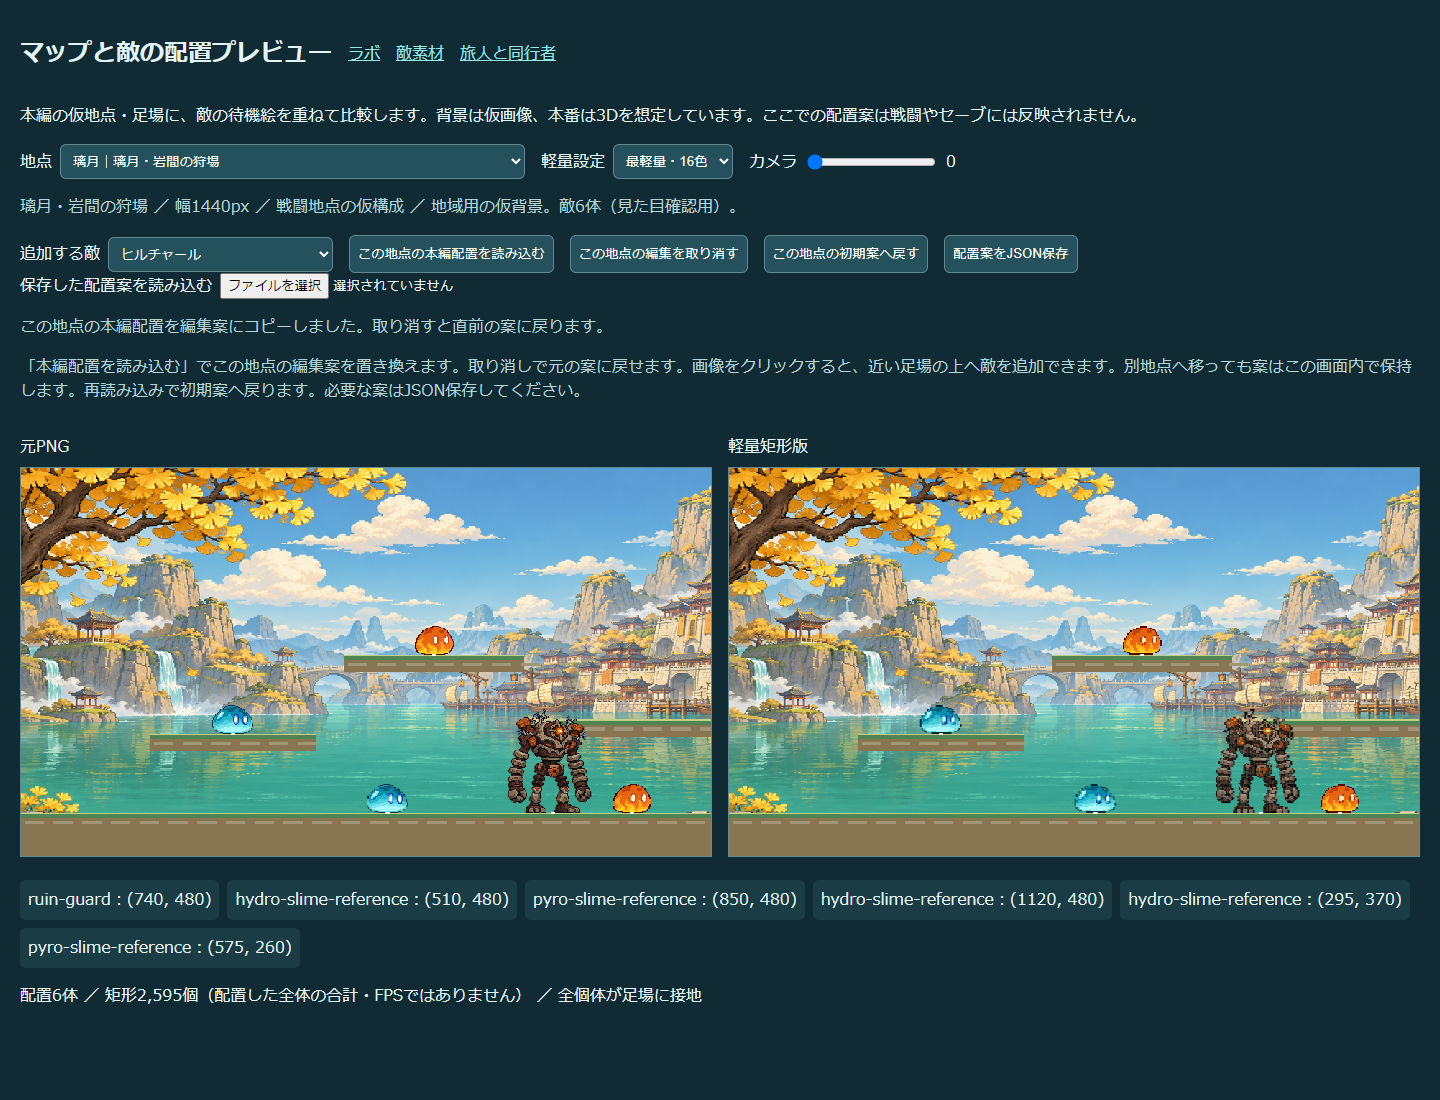
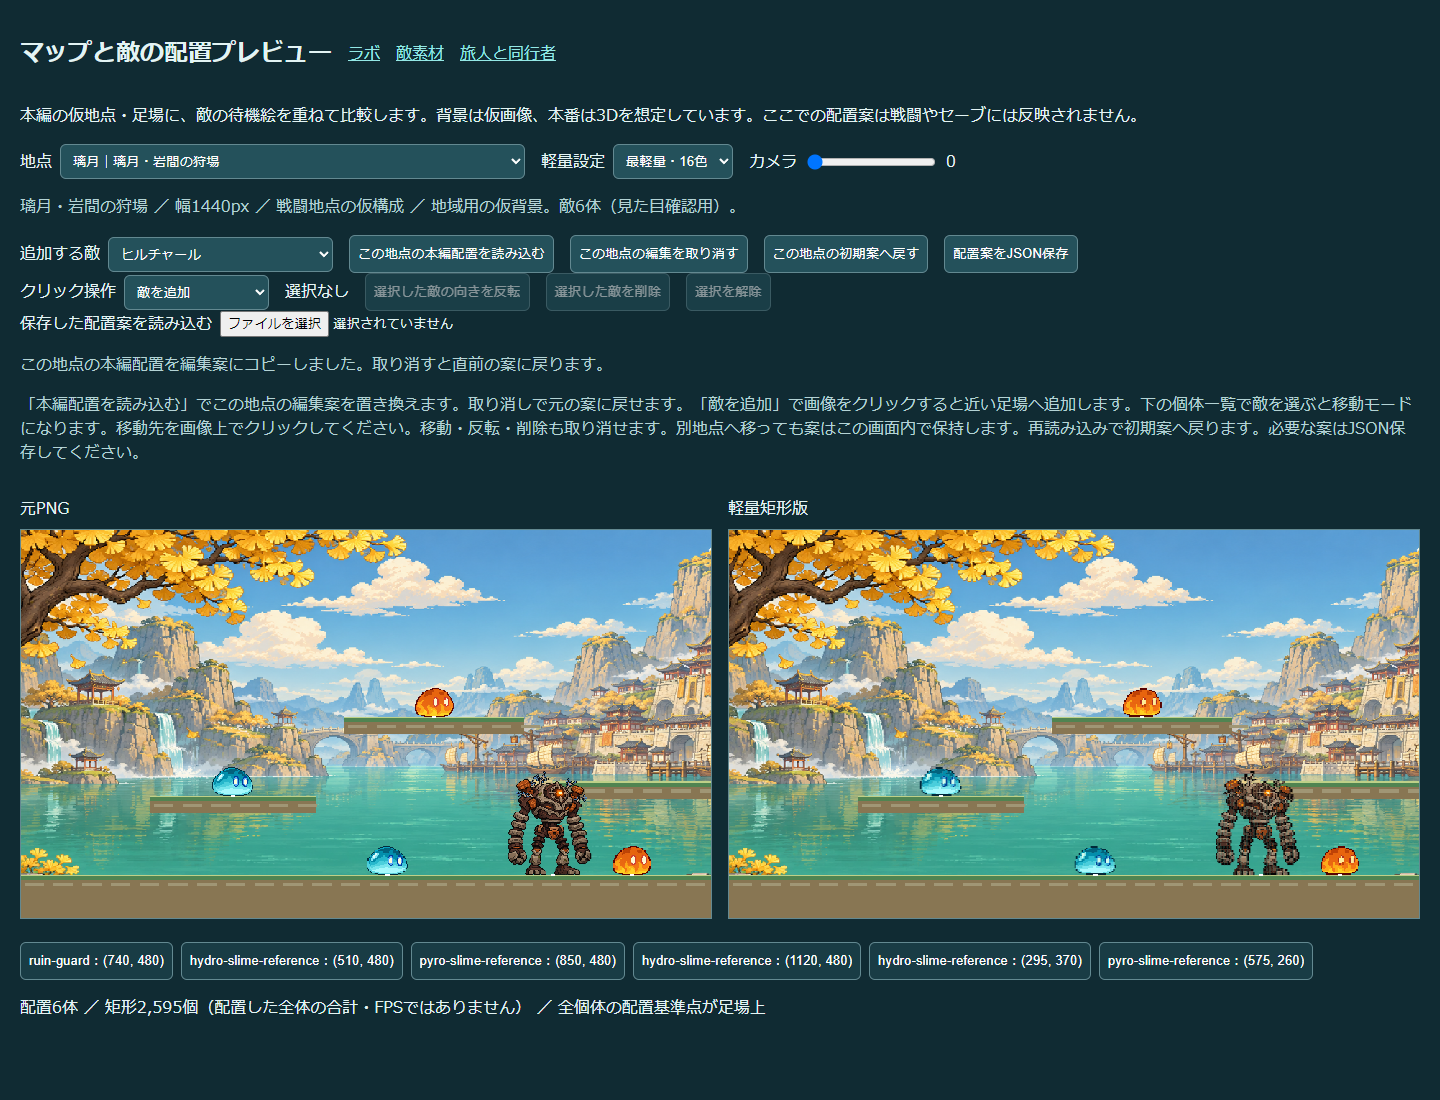
Support reversible move, mirror and delete of draft enemy placements

diff --git a/map-art.js b/map-art.js
@@ -5,7 +5,7 @@ async function json(path){const r=await fetch(path);if(!r.ok)throw Error(path);r
 try{
  const [graph,initial,variants]=await Promise.all([json('content/story-graph.json'),json('content/enemy-placement-drafts.json'),json('assets/variants.json'),backgroundReady]);
  const layouts=await json('content/enemy-art-layout.json');
- let drafts=structuredClone(initial),serial=0,importTicket=0;const nodes=new Map(graph.nodes.map(n=>[n.id,n]));
+ let drafts=structuredClone(initial),serial=0,importTicket=0,selected=null;const nodes=new Map(graph.nodes.map(n=>[n.id,n]));
  for(const [id,index] of [['hydro-slime',4],['pyro-slime',6]]){const profiles=Object.fromEntries(Object.entries(variants.variants).map(([k,v])=>[k,v.sprites[index]]));assets[id]={source:'atlas-transparent.png',box:profiles.legacy.box,profiles,h:40}}
  assets['ruin-guard']={...await json('assets/ruin-guard-idle-sprites.json'),h:144};
  assets['dendro-fungus']={...await json('assets/dendro-fungus-idle-sprites.json'),h:64};
@@ -21,23 +21,31 @@ try{
  function placements(){return drafts.nodes[node().id]??=[]}
  function render(){
   const n=node(),camera=Number($('camera').value),profile=$('profile').value,items=placements(),frame={camera,platforms:n.platforms,campaign:{zone:n.hub?'town':`story:${n.id}`},story:{active:true,node:n.id},storyGraph:graph};
+  if(!items.some(e=>e.id===selected))selected=null;
   const background=sceneryStatus(frame);
   const mapped=Object.values(sceneryDefinitions).some(d=>d.region===n.region),valid=items.every(e=>n.platforms.some(p=>p.y===e.y&&e.x>=p.x&&e.x<=p.x+p.w));
   $('cameraValue').value=camera;$('context').textContent=`${n.name} ／ 幅${n.width}px ／ ${n.hub?'拠点':n.peaceful?'非戦闘地点':'戦闘地点の仮構成'} ／ ${background.state!=='ready'?'背景画像を読み込めません：単色で表示（'+background.file+'）':mapped?(sceneryDefinitions[background.key].note||'地域用の仮背景'):'専用背景未制作：モンド画像で代用'}。敵${items.length}体（見た目確認用）。`;
   for(const mode of ['png','rect']){const ctx=$(mode).getContext('2d');ctx.clearRect(0,0,960,540);scenery(ctx,frame);ctx.imageSmoothingEnabled=false;
    for(const e of items){const a=assets[e.species],w=a.h*a.box[2]/a.box[3],anchor=a.anchorX??.5,x=e.x-camera;ctx.save();ctx.translate(x,e.y-a.hover);if(e.flip)ctx.scale(-1,1);
     if(mode==='png')ctx.drawImage(a.image,...a.box,-w*anchor,-a.h,w,a.h);else{const p=a.profiles[profile];for(const r of p.runs){ctx.fillStyle=r[4];ctx.fillRect(-w*anchor+r[0]*w/p.width,-a.h+r[1]*a.h/p.height,r[2]*w/p.width+.05,r[3]*a.h/p.height+.05)}}ctx.restore();
+    if(e.id===selected){ctx.strokeStyle='#ffe08a';ctx.lineWidth=2;ctx.strokeRect(x-w*(e.flip?1-anchor:anchor)-3,e.y-a.hover-a.h-3,w+6,a.h+6)}
     ctx.fillStyle='#ffffff';ctx.fillRect(x-3,e.y-1,6,2);
    }
   }
-  $('placements').replaceChildren();for(const e of items){const label=document.createElement('span');label.textContent=`${e.species}：(${e.x}, ${e.y})${assets[e.species].hover?` ／ 浮き ${assets[e.species].hover}px`:``}`;$('placements').append(label)}
+  $('placements').replaceChildren();for(const e of items){const label=document.createElement('button');label.type='button';label.dataset.id=e.id;label.setAttribute('aria-pressed',String(e.id===selected));label.onclick=()=>{selected=e.id;$('editMode').value='move';render()};label.textContent=`${e.species}：(${e.x}, ${e.y})${assets[e.species].hover?` ／ 浮き ${assets[e.species].hover}px`:``}`;$('placements').append(label)}
+  const chosen=items.find(e=>e.id===selected);$('selectionStatus').textContent=chosen?`選択：${chosen.species} (${chosen.x}, ${chosen.y})`:'選択なし';for(const id of ['flipSelected','deleteSelected','clearSelection'])$(id).disabled=!chosen;
   const runs=items.reduce((sum,e)=>sum+assets[e.species].profiles[profile].runs.length,0);$('status').textContent=`配置${items.length}体 ／ 矩形${runs.toLocaleString()}個（配置した全体の合計・FPSではありません） ／ ${valid?'全個体の配置基準点が足場上':'足場外の配置あり'}`;$('undo').disabled=!(histories[n.id]?.length);
-  window.mapArt={ready:true,node:n.id,nodeCount:nodes.size,camera,profile,count:items.length,placements:structuredClone(items),visuals:items.map(e=>({id:e.id,y:e.y-assets[e.species].hover,hover:assets[e.species].hover,height:assets[e.species].h})),grounded:valid,background:sceneryKey(frame),backgroundFallback:!mapped,backgroundState:background.state,backgroundFile:background.file};
+  window.mapArt={ready:true,node:n.id,nodeCount:nodes.size,camera,profile,count:items.length,selected,editMode:$('editMode').value,placements:structuredClone(items),visuals:items.map(e=>({id:e.id,y:e.y-assets[e.species].hover,hover:assets[e.species].hover,height:assets[e.species].h})),grounded:valid,background:sceneryKey(frame),backgroundFallback:!mapped,backgroundState:background.state,backgroundFile:background.file};
  }
  function remember(id){const history=histories[id]??=[];history.push(structuredClone(drafts.nodes[id]??[]));if(history.length>100)history.shift()}
- function select(){const n=node();$('camera').max=Math.max(0,n.width-960);$('camera').value=0;render()}
- $('node').onchange=select;for(const id of ['camera','profile'])$(id).oninput=render;
+ function select(){selected=null;const n=node();$('camera').max=Math.max(0,n.width-960);$('camera').value=0;render()}
+ $('node').onchange=select;$('editMode').onchange=render;
+ $('clearSelection').onclick=()=>{selected=null;$('editMode').value='add';render()};
+ $('flipSelected').onclick=()=>{const e=placements().find(e=>e.id===selected);if(!e)return;remember(node().id);e.flip=!e.flip;render()};
+ $('deleteSelected').onclick=()=>{if(!selected)return;remember(node().id);drafts.nodes[node().id]=placements().filter(e=>e.id!==selected);selected=null;render()};
+for(const id of ['camera','profile'])$(id).oninput=render;
  for(const mode of ['png','rect'])$(mode).onclick=event=>{const box=$(mode).getBoundingClientRect(),n=node(),x=Math.round((event.clientX-box.left)*960/box.width+Number($('camera').value)),y=(event.clientY-box.top)*540/box.height;const supports=n.platforms.filter(p=>x>=p.x&&x<=p.x+p.w&&x<=n.width).sort((a,b)=>Math.abs(a.y-y)-Math.abs(b.y-y));if(!supports.length)return;
+  if($('editMode').value==='move'){const e=placements().find(e=>e.id===selected);if(!e){$('fileStatus').textContent='下の個体一覧から移動する敵を選んでください。';return}if(e.x!==x||e.y!==supports[0].y){remember(n.id);e.x=x;e.y=supports[0].y}render();return}
   if(placements().length>=MAX_NODE_PLACEMENTS||Object.values(drafts.nodes).reduce((s,x)=>s+x.length,0)>=MAX_TOTAL_PLACEMENTS){$('fileStatus').textContent='配置数の上限です。別の案として保存してから編集してください。';return}
   let id;do{id=`added-${++serial}`}while(placements().some(e=>e.id===id));const item={id,species:$('species').value,x,y:supports[0].y,flip:false};remember(n.id);placements().push(item);render()};
  $('undo').onclick=()=>{const previous=histories[node().id]?.pop();if(previous)drafts.nodes[node().id]=previous;render()};
@@ -50,7 +58,7 @@ try{
    if(file.size>MAX_DRAFT_BYTES)throw Error('512KB以下の配置案を選んでください。');
    const text=await file.text();if(ticket!==importTicket)return;
    let parsed;try{parsed=JSON.parse(text)}catch{throw Error('JSONを読み取れませんでした。')}
-   const next=validatePlacementDraft(parsed,graph,Object.keys(assets));drafts=next;for(const id of Object.keys(histories))delete histories[id];
+   const next=validatePlacementDraft(parsed,graph,Object.keys(assets));drafts=next;selected=null;for(const id of Object.keys(histories))delete histories[id];
    render();$('fileStatus').textContent=`${file.name}を読み込みました。全地点の編集案を置き換えました。`;
   }catch(e){if(ticket===importTicket)$('fileStatus').textContent=`読み込み中止：${e.message} 編集中の案は保持しています。`}
   finally{if(ticket===importTicket)$('import').value=''}

diff --git a/map-art.html b/map-art.html
@@ -1,10 +1,11 @@
 <!doctype html><html lang="ja"><meta charset="utf-8"><meta name="viewport" content="width=device-width,initial-scale=1"><title>マップと敵の配置プレビュー</title>
-<style>body{margin:20px;background:#102b33;color:#e3f4f4;font:16px sans-serif}a{color:#94e8e5}header,.controls{display:flex;gap:16px;align-items:center;flex-wrap:wrap}h1{font-size:24px}select{min-width:0}select,button{padding:8px;background:#24515b;color:white;border:1px solid #638991;border-radius:6px;max-width:100%}label{max-width:100%;min-width:0;display:flex;gap:8px;align-items:center;flex-wrap:wrap}main{display:grid;grid-template-columns:repeat(auto-fit,minmax(min(100%,480px),1fr));gap:16px}figure{margin:16px 0}canvas{width:100%;image-rendering:pixelated;border:1px solid #638991;box-sizing:border-box}figcaption{margin-bottom:8px}.note{color:#b4d3d5}input{max-width:100%;min-width:0}#placements{display:flex;gap:8px;flex-wrap:wrap}#placements span{padding:8px;background:#193c45;border-radius:6px}button:disabled{opacity:.5}</style>
+<style>body{margin:20px;background:#102b33;color:#e3f4f4;font:16px sans-serif}a{color:#94e8e5}header,.controls{display:flex;gap:16px;align-items:center;flex-wrap:wrap}h1{font-size:24px}select{min-width:0}select,button{padding:8px;background:#24515b;color:white;border:1px solid #638991;border-radius:6px;max-width:100%}label{max-width:100%;min-width:0;display:flex;gap:8px;align-items:center;flex-wrap:wrap}main{display:grid;grid-template-columns:repeat(auto-fit,minmax(min(100%,480px),1fr));gap:16px}figure{margin:16px 0}canvas{width:100%;image-rendering:pixelated;border:1px solid #638991;box-sizing:border-box}figcaption{margin-bottom:8px}.note{color:#b4d3d5}input{max-width:100%;min-width:0}#placements{display:flex;gap:8px;flex-wrap:wrap}#placements button{padding:8px;background:#193c45;border-radius:6px}button[aria-pressed="true"]{outline:2px solid #ffe08a}button:disabled{opacity:.5}</style>
 <header><h1>マップと敵の配置プレビュー</h1><a href="index.html">ラボ</a><a href="enemies-art.html">敵素材</a><a href="characters-art.html">旅人と同行者</a></header>
 <p>本編の仮地点・足場に、敵の待機絵を重ねて比較します。背景は仮画像、本番は3Dを想定しています。ここでの配置案は戦闘やセーブには反映されません。</p>
 <div class="controls"><label>地点 <select id="node"></select></label><label>軽量設定 <select id="profile"><option value="legacy">標準</option><option value="h48c32">中間・32色</option><option value="h32c16" selected>最軽量・16色</option></select></label><label>カメラ <input id="camera" type="range" min="0" value="0" step="1"><output id="cameraValue">0</output></label></div>
 <p id="context" class="note"></p><div class="controls"><label>追加する敵 <select id="species"><option value="armored-crab">重甲ヤドカニ（全身参照v2）</option><option value="nobushi">野伏・陣刀番（待機候補）</option><option value="dendro-fungus">浮遊草キノコン（待機候補）</option><option value="ruin-guard">遺跡守衛（待機候補）</option><option value="hilichurl" selected>ヒルチャール</option><option value="hydro-slime">水スライム（旧候補）</option><option value="pyro-slime">炎スライム（旧候補）</option><option value="hydro-slime-reference">水スライム（参照付き新候補）</option><option value="pyro-slime-reference">炎スライム（参照付き新候補）</option></select></label><button id="loadLive">この地点の本編配置を読み込む</button><button id="undo">この地点の編集を取り消す</button><button id="reset">この地点の初期案へ戻す</button><button id="export">配置案をJSON保存</button></div>
+<div class="controls"><label>クリック操作 <select id="editMode"><option value="add">敵を追加</option><option value="move">選択した敵を移動</option></select></label><span id="selectionStatus">選択なし</span><button id="flipSelected" disabled>選択した敵の向きを反転</button><button id="deleteSelected" disabled>選択した敵を削除</button><button id="clearSelection" disabled>選択を解除</button></div>
 <label>保存した配置案を読み込む <input id="import" type="file" accept=".json,application/json"></label><p id="fileStatus" role="status" class="note">読み込むと全地点の編集案を置き換えます。必要な案は先にJSON保存してください。</p>
-<p class="note">「本編配置を読み込む」でこの地点の編集案を置き換えます。取り消しで元の案に戻せます。画像をクリックすると、近い足場の上へ敵を追加できます。別地点へ移っても案はこの画面内で保持します。再読み込みで初期案へ戻ります。必要な案はJSON保存してください。</p>
+<p class="note">「本編配置を読み込む」でこの地点の編集案を置き換えます。取り消しで元の案に戻せます。「敵を追加」で画像をクリックすると近い足場へ追加します。下の個体一覧で敵を選ぶと移動モードになります。移動先を画像上でクリックしてください。移動・反転・削除も取り消せます。別地点へ移っても案はこの画面内で保持します。再読み込みで初期案へ戻ります。必要な案はJSON保存してください。</p>
 <main><figure><figcaption>元PNG</figcaption><canvas id="png" width="960" height="540"></canvas></figure><figure><figcaption>軽量矩形版</figcaption><canvas id="rect" width="960" height="540"></canvas></figure></main>
 <div id="placements"></div><p id="status" role="status">読み込み中</p><script type="module" src="map-art.js"></script></html>

diff --git a/CHAT_HANDOFF.md b/CHAT_HANDOFF.md
@@ -220,3 +220,5 @@ map-art.html追加: 本編61仮地点の足場/背景を選択し、元PNGと軽
 2026-11-17: 敵のHPバーと予兆「!」を素材の高さ＋浮き量に合わせて頭上へ表示。大型遺跡守衛や野伏の胴体に固定位置のUIが重なる問題を修正。7参照素材＋旧atlasの8種類×PNG/矩形×3設定でHP半分の長さ、頭上位置、カメラ追従、全快/非予兆/死亡時非表示、描画が戦闘状態を変えないことを検査し通過。既存7敵描画とstory19件も通過。7体を横並びにした実Lua静止fixtureをブラウザPNG/最軽量で描画し目視、サイズ差と浮きに追従。HP/攻撃予兆時間/当たり判定/専用技は変更なし。実戦難度/実機性能の検証ではない。 根拠 evidence/enemy-overlays.json, evidence/enemy-overlays-rect.png。
 
 2026-11-17: テペトル竜の参照を収集。HoYoWiki6578の成体全身画像と公式紹介GIF125346のframe0/62を直接確認（全124フレームの全編視聴ではない）。額の黄色結晶/紫褐色の岩状鱗/腹板/短腕/太脚/黄色の足と黒爪を照合。GIFの小さい背面は細部3D検査と区別。RPGSite画像403、MMDモデルAPI404。画像生成はHTTP400 moderation_blocked（出力段階other）で失敗し画像未作成。参照監査と素材一覧へ未生成状態を保存し、完成素材・本編配置として扱わない。既存コード/技/配置は変更なし。 根拠 evidence/tepetlisaurus-reference-audit.json。
+
+2026-11-17: 配置プレビューに個体選択・移動・左右反転・削除を追加。個体一覧をボタンにして選択し、PNG/矩形の両方で枠表示。移動先クリックで近い足場へ吸着しIDと体数を保持。全操作は既存の地点別履歴で取り消し可能。JSON書出/読戻は移動座標と向きを保持、地点変更/読込後は選択を解除。ブラウザで上段へ移動・反転・削除・3段階取り消し・保存復元・カメラ480で座標変換・未選択の移動が追加しないこと・390pxを検証し通過（クリック丸め±1pxを許容）。既存61地点編集と本編配置読込検査も通過。画面を目視。本編配置ファイル/戦闘/技は変更なし、編集案はJSONで持ち出す。 根拠 evidence/placement-editing.json。
